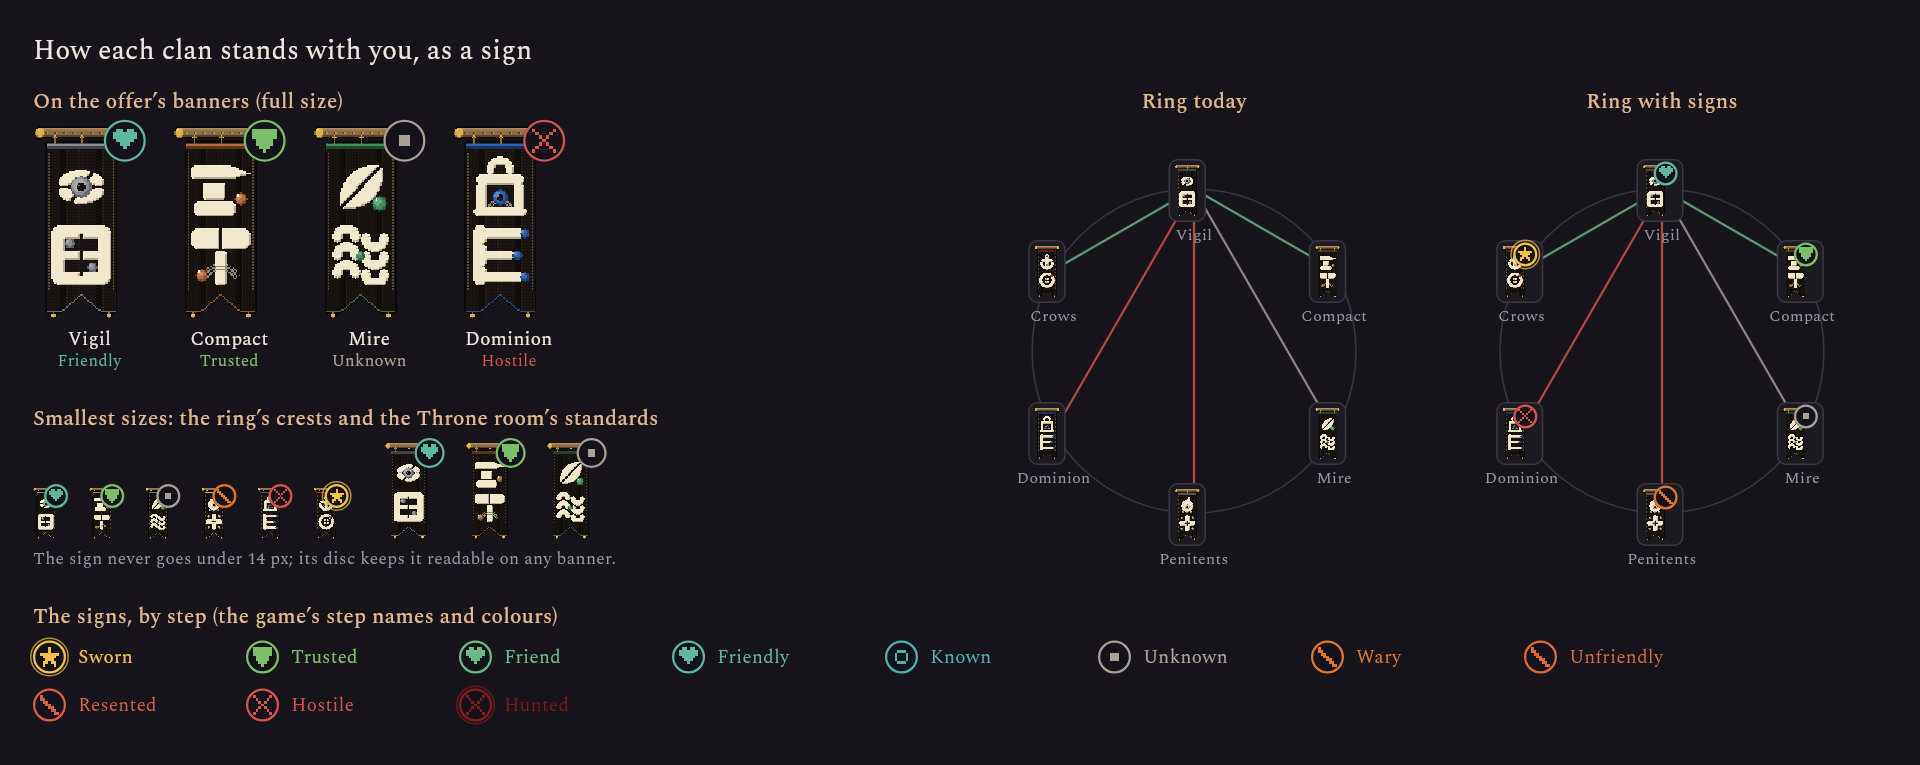
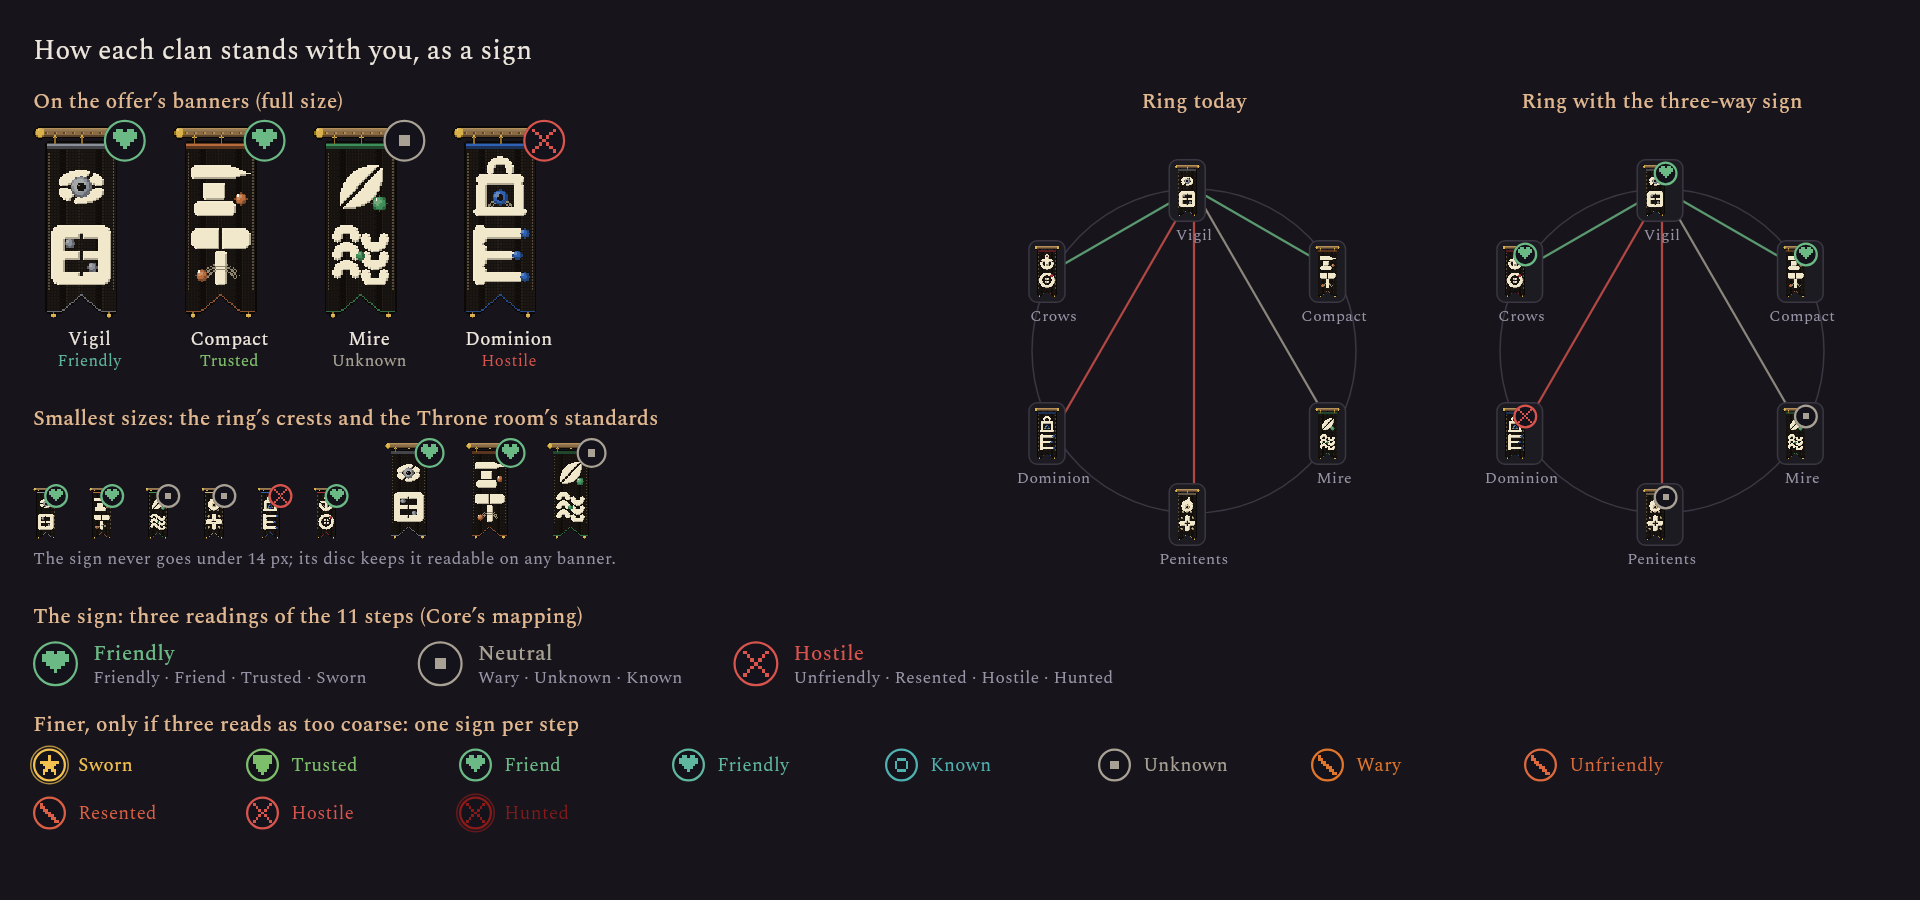
Standing sign mock: lead with Core's three-way mapping, keep the 11-step signs as the finer option
Claude-Session: https://claude.ai/code/session_01Y8cU3zPWWudNpnZGCrkKEc

diff --git a/test/ux_standing_sign_mock_test.dart b/test/ux_standing_sign_mock_test.dart
@@ -177,27 +177,64 @@ class _SignPainter extends CustomPainter {
   bool shouldRepaint(_SignPainter old) => false;
 }
 
-/// The sign for [tier], [size] logical pixels across.
+/// Core's three-way reading of a step: friendly (Friendly, Friend, Trusted,
+/// Sworn), neutral (Wary, Unknown, Known), hostile (Unfriendly, Resented,
+/// Hostile, Hunted).
+enum Stance { friendly, neutral, hostile }
+
+Stance stanceOf(StandingTier t) => switch (t) {
+      StandingTier.friendly ||
+      StandingTier.friend ||
+      StandingTier.trusted ||
+      StandingTier.sworn =>
+        Stance.friendly,
+      StandingTier.wary ||
+      StandingTier.unknown ||
+      StandingTier.known =>
+        Stance.neutral,
+      _ => Stance.hostile,
+    };
+
+_Glyph glyphOfStance(Stance s) => switch (s) {
+      Stance.friendly => _Glyph.heart,
+      Stance.neutral => _Glyph.dot,
+      Stance.hostile => _Glyph.blades,
+    };
+
+/// The three-way sign's colours: the step colours of Friend, Unknown and
+/// Hostile, so they match the clan card.
+Color stanceColour(Stance s) => Color(tierColor(switch (s) {
+      Stance.friendly => StandingTier.friend,
+      Stance.neutral => StandingTier.unknown,
+      Stance.hostile => StandingTier.hostile,
+    }));
+
+/// The sign for [tier], [size] logical pixels across: the three-way sign,
+/// or with [fine] one sign per step.
 class StandingSign extends StatelessWidget {
-  const StandingSign(this.tier, {super.key, this.size = 18});
+  const StandingSign(this.tier, {super.key, this.size = 18, this.fine = false});
   final StandingTier tier;
   final double size;
+  final bool fine;
 
   @override
   Widget build(BuildContext context) => SizedBox(
         width: size,
         height: size,
         child: CustomPaint(
-          painter: _SignPainter(glyphOf(tier), Color(tierColor(tier)),
-              double_:
-                  tier == StandingTier.hunted || tier == StandingTier.sworn),
+          painter: fine
+              ? _SignPainter(glyphOf(tier), Color(tierColor(tier)),
+                  double_:
+                      tier == StandingTier.hunted || tier == StandingTier.sworn)
+              : _SignPainter(
+                  glyphOfStance(stanceOf(tier)), stanceColour(stanceOf(tier))),
         ),
       );
 }
 
 /// A banner with its sign in the top-right corner.
 Widget _bannerWithSign(String id, StandingTier tier,
-        {required double height, required double sign}) =>
+        {required double height, required double sign, bool fine = false}) =>
     SizedBox(
       width: height / 2 + sign * 0.4,
       height: height,
@@ -205,7 +242,9 @@ Widget _bannerWithSign(String id, StandingTier tier,
         Positioned(
             left: 0, top: 0, child: ClanFlag(factionId: id, height: height)),
         Positioned(
-            right: 0, top: -sign * 0.15, child: StandingSign(tier, size: sign)),
+            right: 0,
+            top: -sign * 0.15,
+            child: StandingSign(tier, size: sign, fine: fine)),
       ]),
     );
 
@@ -360,13 +399,43 @@ Widget _ring({required bool signs}) {
 
 Widget _legend() =>
     Column(crossAxisAlignment: CrossAxisAlignment.start, children: [
-      _title('The signs, by step (the game’s step names and colours)'),
+      _title('The sign: three readings of the 11 steps (Core’s mapping)'),
+      Row(crossAxisAlignment: CrossAxisAlignment.start, children: [
+        for (final (st, name, steps) in const [
+          (Stance.friendly, 'Friendly', 'Friendly · Friend · Trusted · Sworn'),
+          (Stance.neutral, 'Neutral', 'Wary · Unknown · Known'),
+          (
+            Stance.hostile,
+            'Hostile',
+            'Unfriendly · Resented · Hostile · Hunted'
+          ),
+        ])
+          Padding(
+            padding: const EdgeInsets.only(right: 34),
+            child: Row(children: [
+              StandingSign(
+                  switch (st) {
+                    Stance.friendly => StandingTier.friend,
+                    Stance.neutral => StandingTier.unknown,
+                    Stance.hostile => StandingTier.hostile,
+                  },
+                  size: 30),
+              const SizedBox(width: 10),
+              Column(crossAxisAlignment: CrossAxisAlignment.start, children: [
+                Text(name, style: _t(14, c: stanceColour(st), bold: true)),
+                Text(steps, style: _t(11.5, c: _ash)),
+              ]),
+            ]),
+          ),
+      ]),
+      const SizedBox(height: 16),
+      _title('Finer, only if three reads as too coarse: one sign per step'),
       Wrap(spacing: 14, runSpacing: 10, children: [
         for (final t in StandingTier.values.reversed)
           SizedBox(
             width: 128,
             child: Row(children: [
-              StandingSign(t, size: 22),
+              StandingSign(t, size: 22, fine: true),
               const SizedBox(width: 8),
               Text(_word(t), style: _t(12.5, c: Color(tierColor(t)))),
             ]),
@@ -395,7 +464,7 @@ Widget _board() => Padding(
           ]),
           const SizedBox(width: 12),
           Column(children: [
-            _title('Ring with signs'),
+            _title('Ring with the three-way sign'),
             _ring(signs: true),
           ]),
         ]),
@@ -407,7 +476,8 @@ Widget _board() => Padding(
 void main() {
   setUpAll(_loadFonts);
 
-  test('every step has a sign, and colours are the game’s', () {
+  test('every step has a three-way reading and a fine sign', () {
+    expect(StandingTier.values.map(stanceOf).toSet(), Stance.values.toSet());
     for (final t in StandingTier.values) {
       expect(_bits[glyphOf(t)], isNotNull, reason: t.name);
     }
@@ -417,7 +487,7 @@ void main() {
       (tester) async {
     final dir = Platform.environment['UX_SHOTS'];
     if (dir == null) return;
-    tester.view.physicalSize = const Size(1280, 510);
+    tester.view.physicalSize = const Size(1280, 600);
     tester.view.devicePixelRatio = 1;
     addTearDown(tester.view.reset);
     final key = GlobalKey();

diff --git a/docs/proposals/standing-sign.md b/docs/proposals/standing-sign.md
@@ -5,25 +5,27 @@ Picture: `docs/ux-shots/standing-sign-mock.png`. Mock test:
 
 ## What it is
 A small round sign, in the corner of a clan's banner and at the clan's point on the
-ring, that shows the clan's **standing step** with the player. It uses the steps
-the clan card already shows (`StandingTier`, `standing_tier_*` words) and the
-game's own tier colours (`tierColor`); no new numbers, no new thresholds.
+ring, that shows how the clan stands with the player **at a glance**: green heart,
+grey dot, red crossed blades. It reads the steps the clan card already shows
+(`StandingTier`, `standingTierFor`) with Core's three-way mapping, and the game's own
+step colours (`tierColor`); no new data, no new numbers.
 
-| Steps | Sign | Colour |
-|---|---|---|
-| Sworn | star, double ring | gold |
-| Trusted | shield | green |
-| Friend, Friendly | heart | green / teal |
-| Known | ring | teal |
-| Unknown | dot | grey |
-| Wary, Unfriendly, Resented | one blade | orange to red |
-| Hostile | crossed blades | red |
-| Hunted | crossed blades, double ring | dark red |
+| Reading | Steps | Sign | Colour |
+|---|---|---|---|
+| Friendly | Friendly, Friend, Trusted, Sworn | heart | green (the Friend step's) |
+| Neutral | Wary, Unknown, Known | dot | grey (the Unknown step's) |
+| Hostile | Unfriendly, Resented, Hostile, Hunted | crossed blades | red (the Hostile step's) |
 
-The signs are 7×7 pixel glyphs on a dark disc with a one-colour rim, hard edges,
-like the banners. Shape and colour both carry the step, so it also reads for a
-colour-blind player and at 16 px (the smallest size: the ring's crests and the
-Throne room's standards at half scale). Full size is 28 px on the offer's banners.
+The sign is a 7×7 pixel glyph on a dark disc with a one-colour rim, hard edges, like
+the banners. Shape and colour both carry the reading, so it works for a colour-blind
+player and at 16 px (the smallest size: the ring's crests and the Throne room's
+standards at half scale). Full size is 28 px on the offer's banners. The clan card
+keeps the exact step word; the sign is the glance.
+
+**A finer option, only if three is too coarse** (shown at the bottom of the picture):
+one sign per step (star for Sworn, shield for Trusted, heart for Friend/Friendly, ring
+for Known, dot for Unknown, one blade for Wary to Resented, crossed blades for
+Hostile, double-ringed for Hunted). I would start with the three-way.
 
 ## Where
 - **(a) Banners**: the offer sheet's banners, the ring's crests, the Throne room's
@@ -36,12 +38,13 @@ Throne room's standards at half scale). Full size is 28 px on the offer's banner
 1. I read "the radar between clans" as the **ring (`ClanCompass`)**. If it means the
    per-clan five-axis radar (`ClanRadarChart`), the sign would sit on its centre
    or title instead; say so.
-2. Trusted uses a shield and not an open hand: at 7×7 the hand read as a plug.
+2. Friendly is a heart and not an open hand: at 7×7 the hand read as a plug.
 3. The Open Hand clan (no standing of its own until the banner is raised) shows
    no sign until it has a standing.
 
 ## Build, if approved
-A `StandingSign` widget in `lib/widgets/` (UX), one optional `tier` parameter on
+A `StandingSign` widget in `lib/widgets/` (UX; it maps the tiers inline, or uses Core's
+`standingSignOf(StandingTier)` helper if Core's clan offer PR has it by then), one optional `tier` parameter on
 the banner widgets (`ClanFlag`, `ClanPeek`'s crests, the Throne room's standards)
 and the compass. The offer's and the ring's crests read the standing from
 `PoliticsState.tierOf`. Small: it can go in the next UX PR (v1.554 or later,
